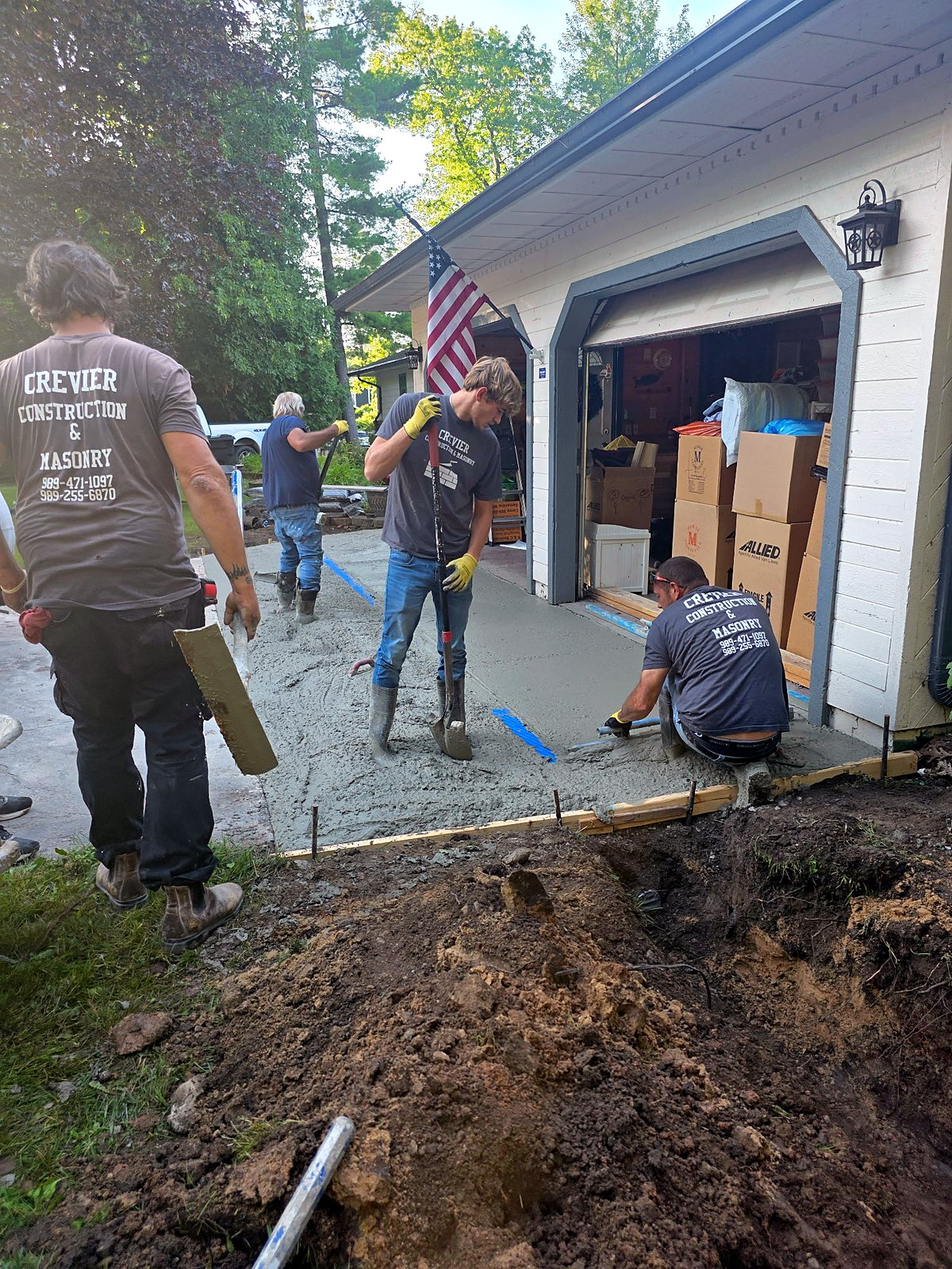
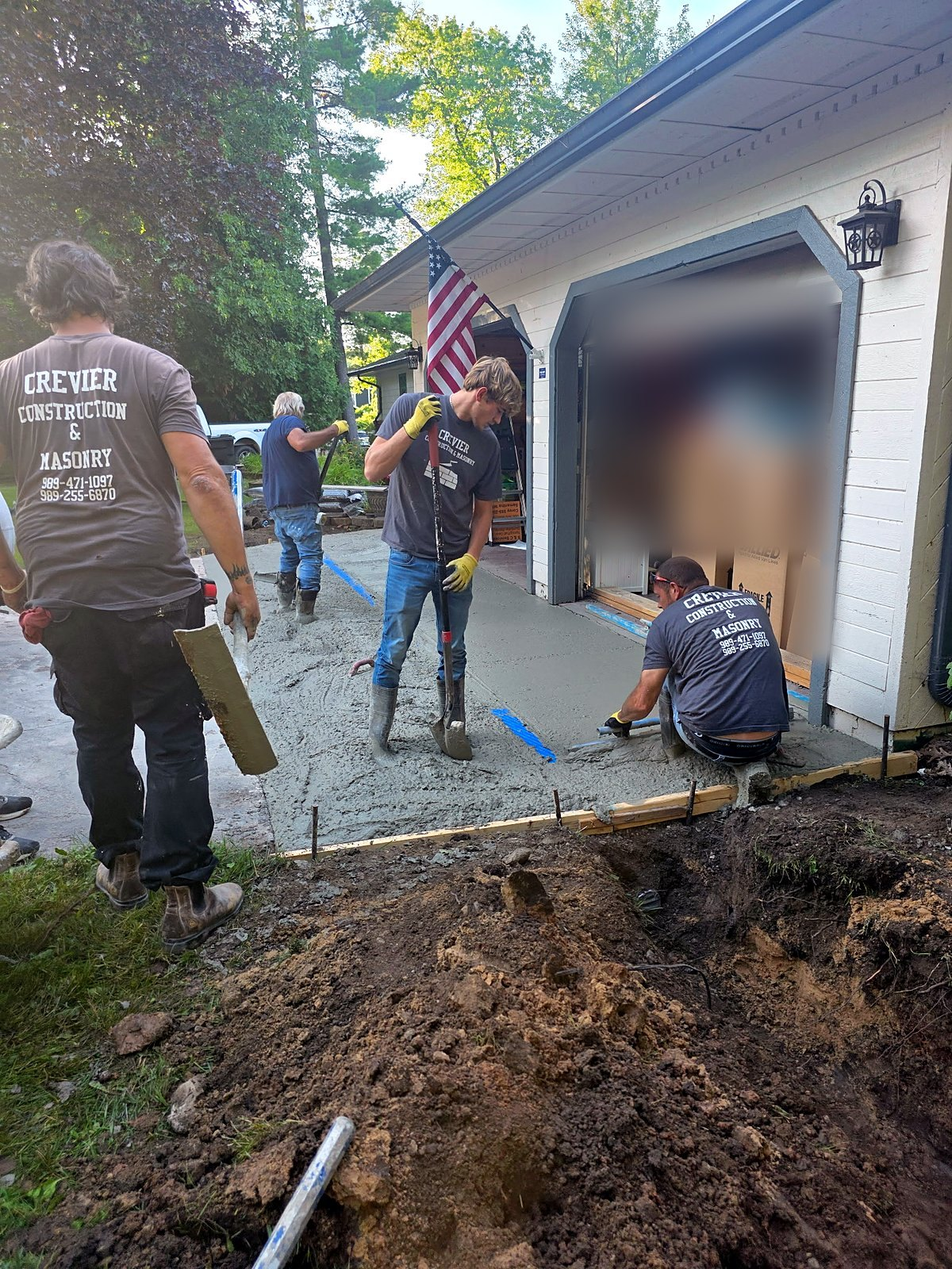
Blur house numbers and customer belongings; show-more buttons; reword see-all-projects links
Claude-Session: https://claude.ai/code/session_01CzLTSHHEfKpvuLi6zaYvdM

Changed region(s): [[0.6167, 0.2188, 0.8942, 0.5312]]

diff --git a/gallery.js b/gallery.js
@@ -1,7 +1,10 @@
 (function () {
-  var tiles = [].slice.call(document.querySelectorAll('.tile'));
+  var LIMIT = parseInt(document.body.getAttribute('data-limit') || '0', 10);
   var lb = document.getElementById('lb');
-  if (!tiles.length || !lb) return;
+  var allTiles = [].slice.call(document.querySelectorAll('.tile'));
+  if (!allTiles.length || !lb) return;
+  function visibleTiles() { return allTiles.filter(function (t) { return !t.hidden; }); }
+  var tiles = visibleTiles();
 
   var big = lb.querySelector('img');
   var cap = lb.querySelector('figcaption');
@@ -13,10 +16,12 @@
     var t = tiles[cur];
     big.src = t.getAttribute('href');
     big.alt = t.querySelector('img').alt;
-    cap.textContent = label;
+    var grp = t.closest('.group');
+    cap.textContent = grp ? grp.querySelector('h2').textContent : label;
   }
 
   function open(i) {
+    tiles = visibleTiles();
     show(i);
     lb.classList.add('open');
     document.body.style.overflow = 'hidden';
@@ -27,12 +32,30 @@
     document.body.style.overflow = '';
   }
 
-  tiles.forEach(function (t, i) {
+  allTiles.forEach(function (t) {
     t.addEventListener('click', function (e) {
       e.preventDefault();
-      open(i);
+      open(visibleTiles().indexOf(t));
     });
   });
+
+  // "Show more photos" for long galleries
+  if (LIMIT) {
+    [].slice.call(document.querySelectorAll('.collage')).forEach(function (grid) {
+      var items = [].slice.call(grid.querySelectorAll('.tile'));
+      if (items.length <= LIMIT) return;
+      items.slice(LIMIT).forEach(function (t) { t.hidden = true; });
+      var btn = document.createElement('button');
+      btn.type = 'button';
+      btn.className = 'more-btn';
+      btn.textContent = 'Show more photos (' + (items.length - LIMIT) + ')';
+      btn.addEventListener('click', function () {
+        items.forEach(function (t) { t.hidden = false; });
+        btn.remove();
+      });
+      grid.parentNode.insertBefore(btn, grid.nextSibling);
+    });
+  }
 
   lb.querySelector('.x').addEventListener('click', close);
   lb.querySelector('.prev').addEventListener('click', function () { show(cur - 1); });

diff --git a/projects.html b/projects.html
@@ -14,7 +14,7 @@
   <link rel="icon" href="/logo/favicon.png" type="image/png">
   <link rel="apple-touch-icon" href="/logo/apple-touch-icon.png">
 </head>
-<body>
+<body data-limit="6">
 
   <header>
     <div class="wrap nav">
@@ -178,52 +178,7 @@
     </div>
   </footer>
 
-  <script>
-    (function () {
-      var tiles = [].slice.call(document.querySelectorAll('.tile'));
-      var lb = document.getElementById('lb');
-      var big = lb.querySelector('img');
-      var cap = lb.querySelector('figcaption');
-      var cur = 0;
-
-      function show(i) {
-        cur = (i + tiles.length) % tiles.length;
-        var t = tiles[cur];
-        big.src = t.getAttribute('href');
-        big.alt = t.querySelector('img').alt;
-        cap.textContent = t.closest('.group').querySelector('h2').textContent;
-      }
-
-      function open(i) {
-        show(i);
-        lb.classList.add('open');
-        document.body.style.overflow = 'hidden';
-      }
-
-      function close() {
-        lb.classList.remove('open');
-        document.body.style.overflow = '';
-      }
-
-      tiles.forEach(function (t, i) {
-        t.addEventListener('click', function (e) {
-          e.preventDefault();
-          open(i);
-        });
-      });
-
-      lb.querySelector('.x').addEventListener('click', close);
-      lb.querySelector('.prev').addEventListener('click', function () { show(cur - 1); });
-      lb.querySelector('.next').addEventListener('click', function () { show(cur + 1); });
-      lb.addEventListener('click', function (e) { if (e.target === lb) close(); });
-      document.addEventListener('keydown', function (e) {
-        if (!lb.classList.contains('open')) return;
-        if (e.key === 'Escape') close();
-        if (e.key === 'ArrowLeft') show(cur - 1);
-        if (e.key === 'ArrowRight') show(cur + 1);
-      });
-    })();
-  </script>
+  <script src="/gallery.js"></script>
 
 </body>
 </html>

diff --git a/foundations-house-lifting.html b/foundations-house-lifting.html
@@ -14,7 +14,7 @@
   <link rel="icon" href="/logo/favicon.png" type="image/png">
   <link rel="apple-touch-icon" href="/logo/apple-touch-icon.png">
 </head>
-<body>
+<body data-limit="9">
 
   <header>
     <div class="wrap nav">
@@ -106,7 +106,7 @@
         </div>
         <div class="backrow">
           <a class="more-link" href="/services">&larr; Back to What We Offer</a>
-          <a class="more-link" href="/projects">See all projects &rarr;</a>
+          <a class="more-link" href="/projects">More of our work &rarr;</a>
         </div>
       </div>
     </section>

diff --git a/concrete-pours.html b/concrete-pours.html
@@ -14,7 +14,7 @@
   <link rel="icon" href="/logo/favicon.png" type="image/png">
   <link rel="apple-touch-icon" href="/logo/apple-touch-icon.png">
 </head>
-<body>
+<body data-limit="9">
 
   <header>
     <div class="wrap nav">
@@ -85,7 +85,7 @@
         </div>
         <div class="backrow">
           <a class="more-link" href="/services">&larr; Back to What We Offer</a>
-          <a class="more-link" href="/projects">See all projects &rarr;</a>
+          <a class="more-link" href="/projects">More of our work &rarr;</a>
         </div>
       </div>
     </section>

diff --git a/styles.css b/styles.css
@@ -372,3 +372,6 @@ nav a.active { opacity: 1; border-bottom: 2px solid var(--gold-light); padding-b
 .no-photos h2 { margin-bottom: 10px; font-size: 1.5rem; }
 .no-photos p { color: var(--stone); max-width: 56ch; margin: 0 auto; }
 .foot-credit { margin-top: 4px; font-size: .8rem; opacity: .7; }
+
+.more-btn { display: block; margin: 22px auto 0; background: var(--black); color: var(--gold-light); border: 2px solid var(--gold); padding: 12px 28px; border-radius: 999px; font-weight: 700; cursor: pointer; }
+.more-btn:hover { background: var(--charcoal); }

diff --git a/excavation.html b/excavation.html
@@ -48,7 +48,7 @@
         </div>
         <div class="backrow">
           <a class="more-link" href="/services">&larr; Back to What We Offer</a>
-          <a class="more-link" href="/projects">See all projects &rarr;</a>
+          <a class="more-link" href="/projects">More of our work &rarr;</a>
         </div>
       </div>
     </section>

diff --git a/footings.html b/footings.html
@@ -48,7 +48,7 @@
         </div>
         <div class="backrow">
           <a class="more-link" href="/services">&larr; Back to What We Offer</a>
-          <a class="more-link" href="/projects">See all projects &rarr;</a>
+          <a class="more-link" href="/projects">More of our work &rarr;</a>
         </div>
       </div>
     </section>

diff --git a/index.html b/index.html
@@ -90,7 +90,7 @@
             <span>House Lifting</span>
           </a>
         </div>
-        <a class="more-link" href="/projects">See all projects &rarr;</a>
+        <a class="more-link" href="/projects">More of our work &rarr;</a>
       </div>
     </section>
 
